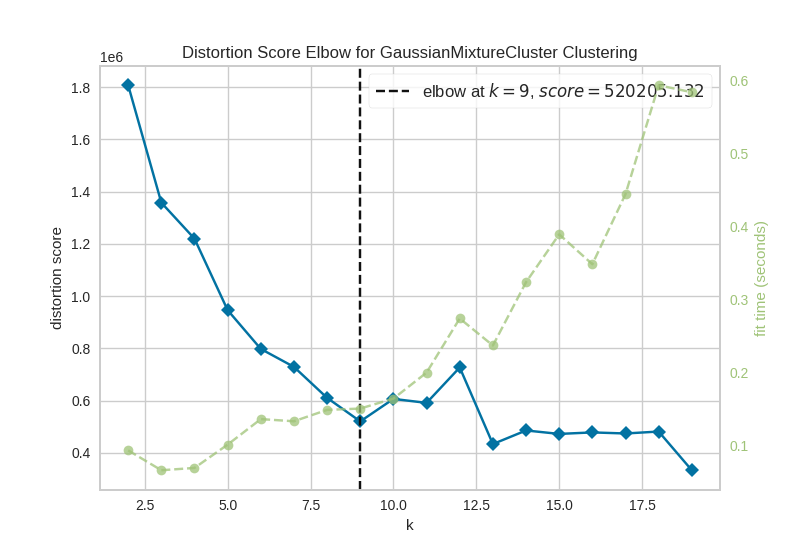
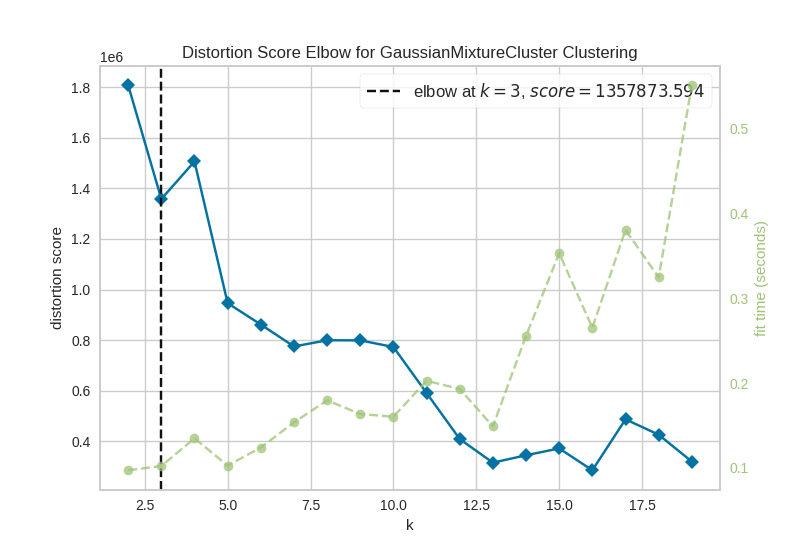
Added wine graphs

diff --git a/clustering.py b/clustering.py
@@ -79,7 +79,7 @@ def elbow(X, dataname, expName):
 
     vis_elbow.fit(X)
     # vis.show()
-    vis_elbow.show('./graphs/elbow/{}_{}_{}.png'.format('Water', "Kmeans", expName))
+    vis_elbow.show('./graphs/elbow/{}_{}_{}.png'.format(dataname, "Kmeans", expName))
     plt.figure()
 
 
@@ -88,7 +88,7 @@ def elbow(X, dataname, expName):
     model_g = GaussianMixtureCluster()
     vis_gm = KElbow(model_g, k=(2,20), force_model=True)
     vis_gm.fit(X)
-    vis_gm.show('./graphs/elbow/{}_{}_{}.png'.format('Water', "EM", expName))
+    vis_gm.show('./graphs/elbow/{}_{}_{}.png'.format(dataname, "EM", expName))
     plt.figure()
 
 
@@ -422,3 +422,5 @@ def runExpWine(X,Y):
     ica(X,Y, "Wine", "std")
     rand_proj(X,Y, "Wine", "std")
     fa(X,Y, "Wine", "std")
+
+    exp3Wine(X,Y)

diff --git a/runExp.py b/runExp.py
@@ -46,8 +46,8 @@ def main():
         warnings.filterwarnings(
             "ignore", category=ConvergenceWarning, module="sklearn"
         )
-    runExpDataSet1()
-    # runExpDataSet2()
+    # runExpDataSet1()
+    runExpDataSet2()
 
 
 if __name__ == "__main__":
